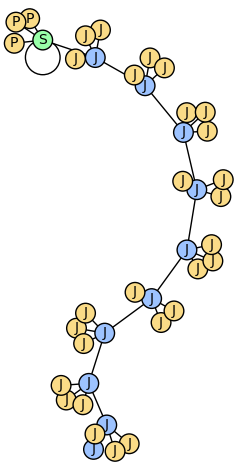
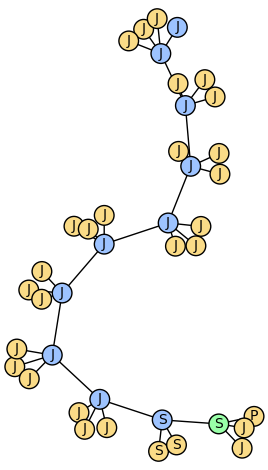
CGL walk much more efficient

Changed region(s): [[0.0, 0.0, 1.0, 0.7149], [0.0, 0.5362, 1.0, 0.983], [0.2363, 0.417, 0.443, 0.566]]

diff --git a/richelot_rm/richelot_vertex_RM.py b/richelot_rm/richelot_vertex_RM.py
@@ -5,6 +5,7 @@ from sage.all import (
     Matrix,
     cached_method,
     matrix,
+    copy,
     ZZ,
 )
 from richelot_rm.richelot_vertex import RichelotVertex
@@ -126,7 +127,7 @@ class RMVertex(RichelotVertex):
 
         # Reduce entries to canonical representatives modulo 2^r
         # TODO: make Omega and the symplectic subspaces fixed constants.
-        return C.change_ring(Integers(2**r))
+        return C.apply_map(lambda x: x % (2**r))
 
     def _form_special_basis(self, W):
         """Given a subspace W over GF(2) representing ker phi, returns a symplectic basis of A[2^r] that decends down to ker phi."""
@@ -154,25 +155,27 @@ class RMVertex(RichelotVertex):
 
         # Now, we hensel lift C0 to C:
         C = self._lift_symplectic(C0)
+        C = C.change_ring(Integers(2 ** (self.r - 1)))
         assert C.is_invertible(), f"C_lifted is not invertible:\n {C}"
         C_inv = C.inverse()
 
         # Compute the RM action on the codomain in the new basis.
-        M_rm = self.rm_action_on_two_r_torsion
+        M_rm = copy(self.rm_action_on_two_r_torsion)
         M_rm_new = C_inv * M_rm * C
         M_rm_new = M_rm_new.change_ring(ZZ)
-        
+
         # Correct issues coming from non-coprime torsion.
         assert M_rm_new[2:4, 0:2] % 2 == 0, f"Not of expected form.\n{M_rm_new}"
         M_rm_new[0:2, 2:4] *= 2
         M_rm_new[2:4, 0:2] /= 2
         M_rm_new = M_rm_new.change_ring(Integers(2 ** (self.r - 1)))
 
-        # Compute the new well-formed generators from the columns of C after pushing phi. 
-        return [
+        # Compute the new well-formed generators from the columns of C after pushing phi.
+        special_basis = [
             self._vector_to_point(col, self.two_r_torsion_generators)
             for col in C.columns()
         ]
+        return special_basis, M_rm_new
 
     @cached_method
     def get_neighbors_with_multiplicities(self):
@@ -180,16 +183,14 @@ class RMVertex(RichelotVertex):
         neighbors = {}
 
         for neighbor, phi, W in neighbors_with_edges:
-            
+
+            special_basis, M_rm_new = self._form_special_basis(W)
             codomain_torsion_gens = [
-                phi(changed_torsion_gens[0]),
-                phi(changed_torsion_gens[1]),
-                phi(2 * changed_torsion_gens[2]),
-                phi(2 * changed_torsion_gens[3]),
+                phi(special_basis[0]),
+                phi(special_basis[1]),
+                phi(2 * special_basis[2]),
+                phi(2 * special_basis[3]),
             ]
-            
-            # 
-            
             assert all(P.has_order(2, self.r - 1) for P in codomain_torsion_gens)
 
             neighbor = RMVertex(neighbor, self.r - 1, codomain_torsion_gens, M_rm_new)
@@ -201,4 +202,5 @@ class RMVertex(RichelotVertex):
 
         return neighbors
 
-# TODO: Now that weil pairing is always the standard one, correct RichelotVertex and RMVertex to reflect this. 
+
+# TODO: Now that weil pairing is always the standard one, correct RichelotVertex and RMVertex to reflect this.

diff --git a/test_cgl_rm.py b/test_cgl_rm.py
@@ -59,8 +59,6 @@ def take_random_walk(initial_vertex, e, allow_backtrack=False):
     graph_dict = {}
     walk = []
     for step in range(e):
-        print(f"Step {step}: @ vertex {current_vertex}")
-
         neighbors = current_vertex.get_neighbors()
         # neighbors are returned in a deterministic order with the backtracking neighbor first.
         random_choice = (
@@ -91,7 +89,7 @@ def test_non_backtracking_random_walk_cgl():
     """Draw a non-backtracking random walk picture for the fixed test case."""
     # form parameters for hash function.
     d = 5
-    e = 10
+    e = 32
     p, f = gen_rm_hash_prime(e, d)
     initial_vertex = get_initial_vertex(p, e)
 
